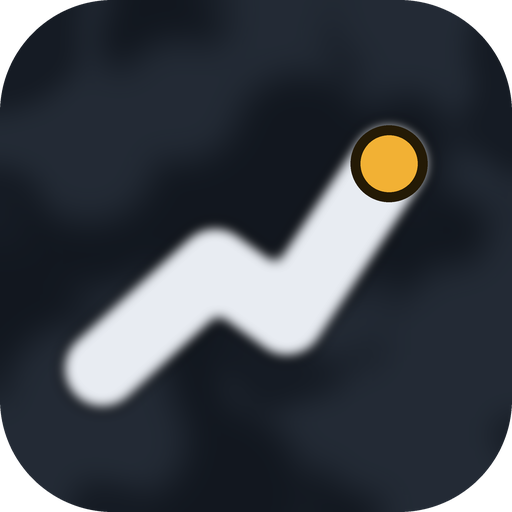
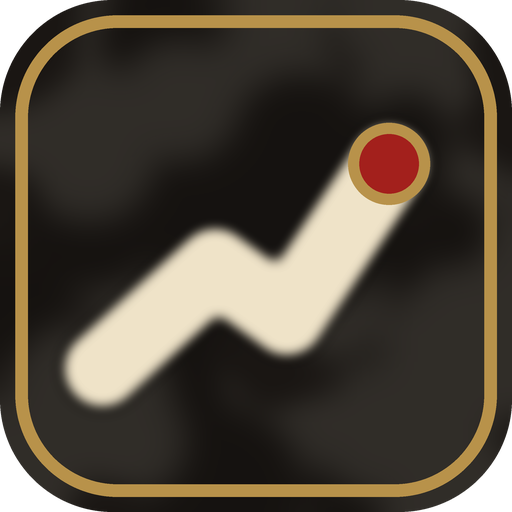
Optik im Escape-ReZort-Stil: Spukhotel-Look, CI-Schriften mit Platzhaltern
- Vergilbte Karte mit Vignette, Messing-Türschild als Logo
- Fortschritt als Papier-Anhänger in Schreibmaschinenschrift
- Roter Stempel-Button, Messing-Kompass, kühler Nebel
- @font-face für Grooving / Grooving Textured / Traveling Typewriter (fonts/),
  bis dahin Creepster und Special Elite als Ersatz
- Neue App-Icons

Claude-Session: https://claude.ai/code/session_01LovnmJwntgQeE62XW4VjxP

Changed region(s): [[0.125, 0.2188, 0.8438, 0.8125], [0.0312, 0.0312, 0.9688, 0.9688]]

diff --git a/style.css b/style.css
@@ -1,93 +1,156 @@
-/* Vollbild-Karte, UI schwebt als dunkle Glas-Elemente darüber.
-   Farbwelt: Nebel (Schiefer-Blau) + Laternen-Bernstein als Akzent. */
+/* DiZcover im Stil des Escape ReZort: altes Spukhotel.
+   Vergilbte Karte, Papier-Etiketten mit Schreibmaschinenschrift, Stempel-Rot, Messing-Kanten.
+   Layout: Vollbild-Karte, UI schwebt als Schilder/Zettel darüber. */
+
+/* CI-Schriften: liegen die Dateien unter fonts/, werden sie verwendet,
+   sonst greifen die Google-Fonts-Platzhalter (Creepster / Special Elite). */
+@font-face {
+  font-family: "Grooving";
+  src: local("Grooving"), url("fonts/Grooving.woff2") format("woff2"), url("fonts/Grooving.ttf") format("truetype"), url("fonts/Grooving.otf") format("opentype");
+  font-display: swap;
+}
+@font-face {
+  font-family: "Grooving Textured";
+  src: local("Grooving Textured"), url("fonts/GroovingTextured.woff2") format("woff2"), url("fonts/GroovingTextured.ttf") format("truetype"), url("fonts/GroovingTextured.otf") format("opentype");
+  font-display: swap;
+}
+@font-face {
+  font-family: "Traveling Typewriter";
+  src: local("Traveling _Typewriter"), local("Traveling Typewriter"), url("fonts/TravelingTypewriter.woff2") format("woff2"), url("fonts/TravelingTypewriter.ttf") format("truetype"), url("fonts/TravelingTypewriter.otf") format("opentype");
+  font-display: swap;
+}
+
 :root {
-  --fog: #151b24;
-  --glass: rgba(21, 27, 36, 0.86);
-  --line: rgba(232, 236, 242, 0.14);
-  --fg: #e8ecf2;
-  --muted: #9aa6b6;
-  --lantern: #f2b134;
-  --lantern-ink: #241a05;
-  --font-brand: "Bricolage Grotesque", "Avenir Next", system-ui, sans-serif;
-  --font-ui: system-ui, -apple-system, "Segoe UI", Roboto, sans-serif;
-  --font-num: "JetBrains Mono", ui-monospace, Menlo, monospace;
+  --night: #1a1613;      /* Hotelflur bei Nacht */
+  --ink: #2a221c;        /* Tinte / dunkles Holz */
+  --paper: #efe3c8;      /* vergilbtes Papier */
+  --paper-edge: #cdb98f;
+  --blood: #a3201c;      /* Stempel-Rot */
+  --brass: #b8924a;      /* Messing */
+  --mist: #a7a596;
+  --font-brand: "Grooving Textured", "Grooving", "Creepster", fantasy, serif;
+  --font-brand-clean: "Grooving", "Creepster", fantasy, serif;
+  --font-type: "Traveling Typewriter", "Special Elite", "Courier New", monospace;
   --sat: env(safe-area-inset-top, 0px);
   --sab: env(safe-area-inset-bottom, 0px);
   --sal: env(safe-area-inset-left, 0px);
   --sar: env(safe-area-inset-right, 0px);
+  --shadow: 0 6px 18px rgba(0, 0, 0, 0.45), 0 1px 0 rgba(0, 0, 0, 0.3);
   color-scheme: dark;
 }
 
 /* hidden muss immer gewinnen, auch gegen display:flex */
 [hidden] { display: none !important; }
 
-html, body { height: 100%; margin: 0; background: var(--fog); color: var(--fg); font-family: var(--font-ui); overflow: hidden; -webkit-tap-highlight-color: transparent; }
-#map { position: fixed; inset: 0; background: #2a313b; }
+html, body { height: 100%; margin: 0; background: var(--night); color: var(--paper); font-family: var(--font-type); overflow: hidden; -webkit-tap-highlight-color: transparent; }
+#map { position: fixed; inset: 0; background: #3a332b; }
 #fog { position: fixed; inset: 0; width: 100%; height: 100%; display: block; pointer-events: none; z-index: 400; }
 
+/* Karte wie ein altes, vergilbtes Hotelprospekt + dunkle Vignette */
+.leaflet-tile-pane { filter: sepia(0.6) saturate(0.75) brightness(0.82) contrast(1.08) hue-rotate(-8deg); }
+body::after {
+  content: ""; position: fixed; inset: 0; z-index: 450; pointer-events: none;
+  background: radial-gradient(ellipse at center, rgba(0,0,0,0) 55%, rgba(16,12,9,0.55) 100%);
+}
+
+/* ---------- Kopfzeile ---------- */
 .top {
   position: fixed; top: 0; left: 0; right: 0; z-index: 1000;
   display: flex; justify-content: space-between; align-items: flex-start; gap: 12px;
   padding: calc(var(--sat) + 12px) max(14px, var(--sar)) 0 max(14px, var(--sal));
   pointer-events: none;
 }
+/* Messing-Türschild */
 .brand {
-  font-family: var(--font-brand); font-weight: 800; font-size: 22px; letter-spacing: -0.02em;
-  background: var(--glass); border: 1px solid var(--line); border-radius: 10px;
-  padding: 6px 12px; backdrop-filter: blur(8px); -webkit-backdrop-filter: blur(8px);
+  font-family: var(--font-brand); font-size: 30px; line-height: 1; letter-spacing: 0.01em;
+  color: var(--paper);
+  background: linear-gradient(180deg, #2f2620, var(--ink));
+  border: 2px solid var(--brass); outline: 1px solid rgba(0,0,0,0.6); outline-offset: -5px;
+  border-radius: 6px; padding: 8px 14px 6px; box-shadow: var(--shadow);
+  text-shadow: 0 2px 0 rgba(0,0,0,0.5);
 }
-.brand span { color: var(--lantern); }
+.brand span { color: var(--blood); text-shadow: 0 0 10px rgba(163,32,28,0.6), 0 2px 0 rgba(0,0,0,0.5); }
 
+/* Gepäck-/Zimmeranhänger aus Papier */
 .progress {
-  pointer-events: auto; min-width: 118px; text-align: right;
-  background: var(--glass); border: 1px solid var(--line); border-radius: 12px;
-  padding: 8px 12px 10px; backdrop-filter: blur(8px); -webkit-backdrop-filter: blur(8px);
+  pointer-events: auto; position: relative; min-width: 128px; text-align: left;
+  background: var(--paper); color: var(--ink);
+  border: 1px solid var(--paper-edge); border-radius: 4px 14px 14px 4px;
+  padding: 10px 14px 12px 26px; box-shadow: var(--shadow);
+  transform: rotate(2.5deg); transform-origin: top right;
+  background-image: radial-gradient(rgba(120,90,40,0.12) 1px, transparent 1.5px);
+  background-size: 7px 7px;
 }
-.pct { font-family: var(--font-num); font-weight: 700; font-size: 26px; line-height: 1.05; color: var(--lantern); font-variant-numeric: tabular-nums; }
-.pct-label { font-size: 11px; letter-spacing: 0.06em; text-transform: uppercase; color: var(--muted); margin-top: 2px; }
-.bar { height: 4px; border-radius: 2px; background: rgba(255,255,255,0.12); margin-top: 7px; overflow: hidden; }
-.bar i { display: block; height: 100%; width: 0; background: var(--lantern); transition: width .4s ease; }
+.progress::before { /* Lochung */
+  content: ""; position: absolute; left: 9px; top: 50%; width: 9px; height: 9px; margin-top: -5px;
+  border-radius: 50%; background: var(--night); box-shadow: inset 0 0 0 2px var(--brass);
+}
+.tag-head { font-size: 11px; letter-spacing: 0.18em; text-transform: uppercase; color: var(--blood); }
+.pct { font-family: var(--font-type); font-size: 28px; line-height: 1.1; color: var(--ink); font-variant-numeric: tabular-nums; margin-top: 2px; }
+.pct-label { font-size: 12px; color: #6b5a44; margin-top: 1px; }
+.bar { height: 5px; margin-top: 8px; background: rgba(42,34,28,0.15); border-radius: 1px; overflow: hidden; }
+.bar i { display: block; height: 100%; width: 0; background: var(--blood); transition: width .4s ease; }
 
+/* ---------- Hinweise ---------- */
 .status {
-  position: fixed; z-index: 1000; left: 50%; transform: translateX(-50%);
-  top: calc(var(--sat) + 64px);
-  font-size: 12px; color: var(--muted); background: var(--glass); border: 1px solid var(--line);
-  border-radius: 999px; padding: 5px 12px; white-space: nowrap; pointer-events: none;
+  position: fixed; z-index: 1000; left: 50%; transform: translateX(-50%) rotate(-1deg);
+  top: calc(var(--sat) + 132px);
+  font-size: 13px; color: var(--ink); background: var(--paper); border: 1px solid var(--paper-edge);
+  padding: 6px 12px; white-space: nowrap; pointer-events: none; box-shadow: var(--shadow);
 }
 .status.ok { display: none; }
 
+.draw-hint, .sim {
+  position: fixed; z-index: 1000; left: 50%; transform: translateX(-50%) rotate(-0.8deg);
+  bottom: calc(var(--sab) + 92px); width: min(90vw, 400px); box-sizing: border-box;
+  font-size: 14px; line-height: 1.45; text-align: center; color: var(--ink);
+  background: var(--paper); border: 1px solid var(--paper-edge); padding: 10px 14px; box-shadow: var(--shadow);
+}
+.sim { top: calc(var(--sat) + 132px); bottom: auto; font-size: 12px; color: var(--blood); }
+
+/* ---------- Buttons ---------- */
 .dock {
   position: fixed; z-index: 1000; left: 0; right: 0; bottom: 0;
   display: flex; justify-content: center; align-items: center; gap: 10px;
-  padding: 0 max(14px, var(--sar)) calc(var(--sab) + 18px) max(14px, var(--sal));
+  padding: 0 max(14px, var(--sar)) calc(var(--sab) + 20px) max(14px, var(--sal));
   pointer-events: none;
 }
 .dock > * { pointer-events: auto; }
 
 .btn {
-  font: 600 16px/1 var(--font-ui); border-radius: 14px; border: 1px solid var(--line);
-  padding: 15px 22px; color: var(--fg); background: var(--glass); cursor: pointer;
-  backdrop-filter: blur(8px); -webkit-backdrop-filter: blur(8px);
+  font: 16px/1 var(--font-type); color: var(--ink); cursor: pointer;
+  background: var(--paper); border: 1px solid var(--paper-edge); border-radius: 4px;
+  padding: 14px 16px; box-shadow: var(--shadow);
   transition: transform .08s ease, opacity .2s ease;
 }
-.btn:active { transform: scale(0.97); }
-.btn:disabled { opacity: 0.4; cursor: default; }
-.btn:focus-visible { outline: 2px solid var(--lantern); outline-offset: 2px; }
-.btn.primary { background: var(--lantern); color: var(--lantern-ink); border-color: transparent; font-family: var(--font-brand); font-weight: 800; letter-spacing: 0.01em; min-width: 150px; }
-.btn.round { width: 52px; height: 52px; padding: 0; display: grid; place-items: center; border-radius: 50%; position: absolute; right: max(14px, var(--sar)); bottom: calc(var(--sab) + 18px); }
-
-.draw-hint, .sim {
-  position: fixed; z-index: 1000; left: 50%; transform: translateX(-50%);
-  bottom: calc(var(--sab) + 86px); width: min(92vw, 420px); box-sizing: border-box;
-  font-size: 14px; line-height: 1.4; text-align: center;
-  background: var(--glass); border: 1px solid var(--line); border-radius: 12px; padding: 10px 14px;
+.btn:active { transform: scale(0.97) rotate(-0.5deg); }
+.btn:disabled { opacity: 0.45; cursor: default; }
+.btn:focus-visible { outline: 2px solid var(--brass); outline-offset: 3px; }
+/* Roter Stempel */
+.btn.primary {
+  font-family: var(--font-brand-clean); font-size: 24px; letter-spacing: 0.03em;
+  color: var(--paper); background: var(--blood); min-width: 170px; padding: 13px 22px 11px;
+  border: 2px solid #6f1311; border-radius: 6px;
+  box-shadow: inset 0 0 0 3px rgba(239,227,200,0.25), var(--shadow);
+  text-shadow: 0 1px 0 rgba(0,0,0,0.35);
 }
-.sim { top: calc(var(--sat) + 64px); bottom: auto; font-size: 12px; color: var(--lantern); }
+.btn.ghost { background: var(--paper); }
+/* Kompass-Knopf aus Messing */
+.btn.round {
+  width: 54px; height: 54px; padding: 0; display: grid; place-items: center; border-radius: 50%;
+  position: absolute; right: max(14px, var(--sar)); bottom: calc(var(--sab) + 20px);
+  color: var(--paper); background: radial-gradient(circle at 35% 30%, #d4b06a, var(--brass) 45%, #7a5f2c);
+  border: 2px solid #5e4920;
+}
 
 /* Leaflet-Feinschliff */
-.leaflet-control-attribution { font-size: 10px; background: rgba(21,27,36,.7) !important; color: var(--muted) !important; }
-.leaflet-control-attribution a { color: var(--muted) !important; }
-.leaflet-bottom.leaflet-right { margin-bottom: calc(var(--sab) + 80px); }
-.vertex-first { cursor: pointer; }
+.leaflet-control-attribution { font: 10px var(--font-type) !important; background: rgba(239,227,200,0.75) !important; color: var(--ink) !important; }
+.leaflet-control-attribution a { color: var(--ink) !important; }
+.leaflet-bottom.leaflet-right { margin-bottom: calc(var(--sab) + 84px); }
 
+@media (max-width: 380px) {
+  .btn.primary { min-width: 0; font-size: 21px; }
+  .btn { padding: 12px 12px; font-size: 15px; }
+}
 @media (prefers-reduced-motion: reduce) { .bar i, .btn { transition: none; } }
+#dockDraw .btn.primary { min-width: 0; padding-inline: 20px; }

diff --git a/app.js b/app.js
@@ -44,8 +44,8 @@
     attribution: '© <a href="https://www.openstreetmap.org/copyright">OpenStreetMap</a>'
   }).addTo(map);
 
-  const accuracyCircle = L.circle([0, 0], { radius: 1, color: '#f2b134', weight: 1, opacity: 0.5, fillOpacity: 0.08, interactive: false });
-  const meMarker = L.circleMarker([0, 0], { radius: 8, color: '#241a05', weight: 3, fillColor: '#f2b134', fillOpacity: 1, interactive: false });
+  const accuracyCircle = L.circle([0, 0], { radius: 1, color: '#a3201c', weight: 1, opacity: 0.6, fillOpacity: 0.08, interactive: false });
+  const meMarker = L.circleMarker([0, 0], { radius: 8, color: '#efe3c8', weight: 3, fillColor: '#a3201c', fillOpacity: 1, interactive: false });
   const drawLayer = L.layerGroup().addTo(map);
 
   // ---------- Nebel-Canvas ----------
@@ -90,7 +90,7 @@
     ctx.fillStyle = fogPattern;
     ctx.fill('evenodd');
     ctx.lineWidth = 2;
-    ctx.strokeStyle = 'rgba(242,177,52,0.75)';
+    ctx.strokeStyle = 'rgba(163,32,28,0.85)';
     ctx.setLineDash([8, 6]);
     ctx.stroke();
     ctx.setLineDash([]);
@@ -240,16 +240,16 @@
   function renderDrawing() {
     drawLayer.clearLayers();
     if (!drawing) return;
-    const style = { color: '#f2b134', weight: 3, interactive: false };
+    const style = { color: '#a3201c', weight: 3, interactive: false };
     if (drawing.length >= 2) {
-      if (drawClosed) L.polygon(drawing, { ...style, fillOpacity: 0.25, fillColor: '#151b24' }).addTo(drawLayer);
+      if (drawClosed) L.polygon(drawing, { ...style, fillOpacity: 0.25, fillColor: '#1a1613' }).addTo(drawLayer);
       else L.polyline(drawing, { ...style, dashArray: '6 6' }).addTo(drawLayer);
     }
     drawing.forEach((p, i) => {
       const first = i === 0 && drawing.length >= 3 && !drawClosed;
       L.circleMarker(p, {
-        radius: first ? 11 : 6, color: '#241a05', weight: 2,
-        fillColor: first ? '#ffffff' : '#f2b134', fillOpacity: 1, interactive: false
+        radius: first ? 11 : 6, color: '#1a1613', weight: 2,
+        fillColor: first ? '#efe3c8' : '#a3201c', fillOpacity: 1, interactive: false
       }).addTo(drawLayer);
     });
     btnUndo.disabled = drawing.length === 0;
@@ -348,7 +348,7 @@
     const c = document.createElement('canvas');
     c.width = c.height = s;
     const g = c.getContext('2d');
-    g.fillStyle = 'rgba(28,36,48,0.93)';
+    g.fillStyle = 'rgba(38,40,38,0.94)';
     g.fillRect(0, 0, s, s);
     // weiche Nebelschwaden, kachelbar (an den Rändern gespiegelt gezeichnet)
     let seed = 7;
@@ -358,7 +358,7 @@
       const light = rnd() > 0.5;
       for (const dx of [-s, 0, s]) for (const dy of [-s, 0, s]) {
         const grd = g.createRadialGradient(x + dx, y + dy, 0, x + dx, y + dy, r);
-        grd.addColorStop(0, light ? 'rgba(120,135,155,0.10)' : 'rgba(8,12,18,0.12)');
+        grd.addColorStop(0, light ? 'rgba(170,175,165,0.12)' : 'rgba(10,10,8,0.16)');
         grd.addColorStop(1, 'rgba(0,0,0,0)');
         g.fillStyle = grd;
         g.fillRect(x + dx - r, y + dy - r, r * 2, r * 2);

diff --git a/index.html b/index.html
@@ -4,7 +4,7 @@
   <meta charset="utf-8">
   <meta name="viewport" content="width=device-width, initial-scale=1, viewport-fit=cover, user-scalable=no">
   <title>DiZcover</title>
-  <meta name="theme-color" content="#151b24">
+  <meta name="theme-color" content="#1a1613">
   <meta name="apple-mobile-web-app-capable" content="yes">
   <meta name="apple-mobile-web-app-status-bar-style" content="black-translucent">
   <meta name="apple-mobile-web-app-title" content="DiZcover">
@@ -13,7 +13,7 @@
   <link rel="apple-touch-icon" href="icons/icon-180.png">
   <link rel="preconnect" href="https://fonts.googleapis.com">
   <link rel="preconnect" href="https://fonts.gstatic.com" crossorigin>
-  <link rel="stylesheet" href="https://fonts.googleapis.com/css2?family=Bricolage+Grotesque:opsz,wght@12..96,500;12..96,800&family=JetBrains+Mono:wght@500;700&display=swap">
+  <link rel="stylesheet" href="https://fonts.googleapis.com/css2?family=Creepster&family=Special+Elite&display=swap">
   <link rel="stylesheet" href="https://unpkg.com/leaflet@1.9.4/dist/leaflet.css">
   <link rel="stylesheet" href="style.css">
 </head>
@@ -25,8 +25,9 @@
   <header class="top">
     <div class="brand">Di<span>Z</span>cover</div>
     <div class="progress" id="progress" hidden>
+      <div class="tag-head">Aufgedeckt</div>
       <div class="pct" id="pct">0,0 %</div>
-      <div class="pct-label" id="pctLabel">aufgedeckt</div>
+      <div class="pct-label" id="pctLabel"></div>
       <div class="bar"><i id="pctBar"></i></div>
     </div>
   </header>
